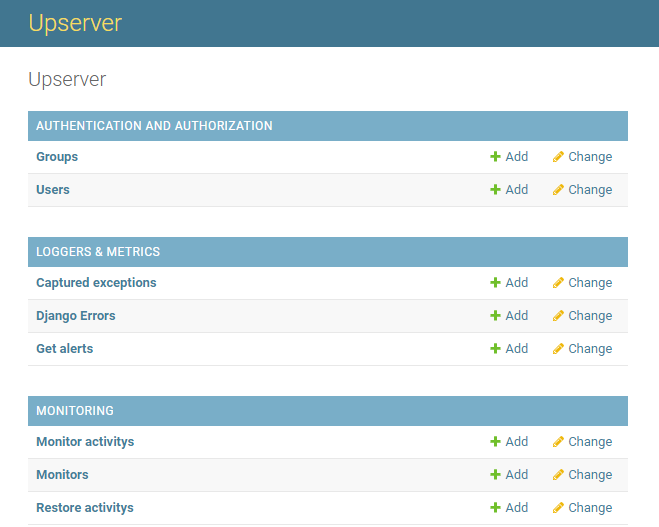
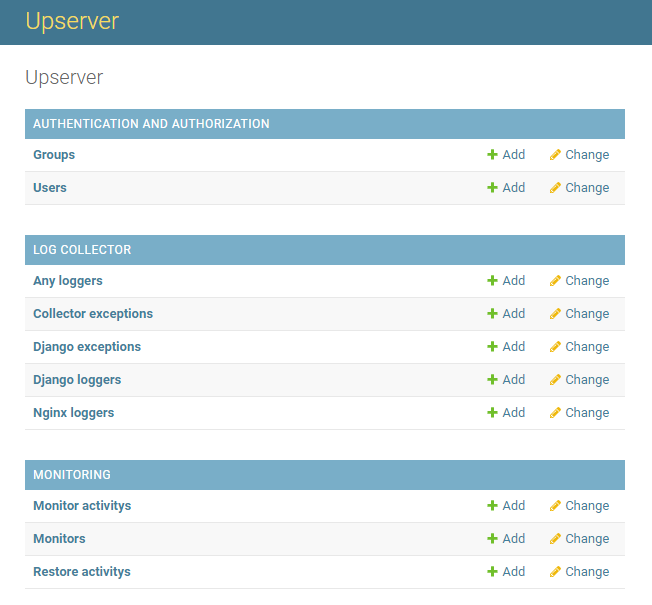
Prepate to beta release

diff --git a/interface/db_tasks.py b/interface/db_tasks.py
@@ -1,0 +1,89 @@
+import os
+from django.contrib.auth.models import User
+from simple_print import sprint
+from log_collector.models import DjangoLogger
+from log_collector.models import DjangoException
+from log_collector.models import AnyLogger
+from log_collector.models import NginxLogger
+from log_collector.models import CollectorException
+from monitoring.models import Monitor
+from mixer.backend.django import mixer
+
+
+def clear_all() -> None:
+    # python run.py db_tasks "clear_all()"
+
+    User.objects.all().delete()
+    DjangoLogger.objects.all().delete()
+    DjangoException.objects.all().delete()
+    AnyLogger.objects.all().delete()
+    NginxLogger.objects.all().delete()
+    Monitor.objects.all().delete()
+    sprint("db_tasks.clear_all -> complete", c="green")
+
+
+def clear_logs() -> None:
+    # python run.py db_tasks "clear_logs()"
+
+    DjangoLogger.objects.all().delete()
+    DjangoException.objects.all().delete()
+    AnyLogger.objects.all().delete()
+    NginxLogger.objects.all().delete()
+    CollectorException.objects.all().delete()
+    sprint("db_tasks.clear_logs -> complete", c="green")
+    
+
+def initial() -> None:
+    # python run.py db_tasks "prepare()"
+
+    username = os.getenv("ADMIN_USER")
+    password = os.getenv("ADMIN_PASSWORD") 
+
+    su_email = f"{username}@up.server"
+    initialized = True
+
+    try:
+       superuser = User.objects.get(email=su_email) 
+    except:
+        superuser = User.objects.create_superuser(username=username, email=su_email, password=password)
+        superuser.save()
+        initialized = False
+    
+    if not initialized:
+
+        monitors_list = [
+            {"name": "httpbin.org",
+            "host": "httpbin.org",
+            "port": 443,
+            "su_host": "httpbin.org",
+            "su_port": 22,
+            "su_login": "root",
+            "su_password": "mypass",
+            "su_restore_commands": "cd /var/opt; ./restore",
+            "active": True
+            }
+        ]
+
+        for monitor_dict in monitors_list:
+            monitor = Monitor()
+            monitor.user = superuser
+            for k, v in monitor_dict.items():
+                monitor.__setattr__(k, v)
+            monitor.save()
+            sprint(f"Monitor successfully created ID={monitor.id}")
+
+        for i in range(10):
+            o = mixer.blend(DjangoLogger, assigned_to=superuser)
+            o.save()
+
+        for i in range(10):
+            o = mixer.blend(DjangoException, assigned_to=superuser)
+            o.save()
+
+        for i in range(10):
+            o = mixer.blend(NginxLogger)
+            o.save()    
+
+        sprint("db_tasks.initial -> complete", c="green")
+    else:
+        sprint("db_tasks.initial -> database already intialized", c="yellow")

diff --git a/interface/urls.py b/interface/urls.py
@@ -5,6 +5,6 @@ urlpatterns = [
     path('', admin.site.urls),
 ] 
 
-admin.site.site_header = "Sys Collector"
-admin.site.site_title = "Sys Collector"
-admin.site.index_title = "Sys Collector"
+admin.site.site_header = "Upserver"
+admin.site.site_title = "Upserver"
+admin.site.index_title = "Upserver"

diff --git a/interface/log_collector/models.py b/interface/log_collector/models.py
@@ -324,7 +324,7 @@ class CollectorException(models.Model):
     creation_date = models.DateTimeField(auto_now_add=True)
 
     def __str__(self):
-        return f"{self.tag}"
+        return f"{self.fn_name}"
 
     @staticmethod
     def format_exception(ei) -> str:

diff --git a/README.md b/README.md
@@ -35,10 +35,11 @@ POSTGRES_HOST=upserver-postgres
 POSTGRES_PORT=5432
 
 # RABBITMQ [CHANGE PASSWORD] 
-RABBITMQ_HOST=upserver-rabbitmq
-RABBITMQ_PORT=5672
 RABBITMQ_USER=admin 
 RABBITMQ_PASSWORD=admin
+RABBITMQ_HOST=upserver-rabbitmq
+RABBITMQ_PORT=5672
+
 
 # INTERFACE [CHANGE SECRET KEY AND TELEGRAM BOT TOKEN]
 SECRET_KEY=django-insecure-@x5%xegdelq=s!fybiup=pktful_+!t%x42y1!hh_=-p7$kz9s 
@@ -54,7 +55,7 @@ docker-compose up --build -d
 
 Run initial script (Required):
 ```sh
-docker exec upserver-interface sh /app/initial_database.sh
+docker exec upserver-interface python run.py db_tasks "initial()"
 ```
 
 Add cron scheduler:
@@ -69,17 +70,27 @@ http://YOU_SERVER_IP:12345 # Here you can log in with ADMIN_USER and ADMIN_PASSW
 
 ## Useful commands
 
+Get shell:
+```sh
+docker exec -it upserver-interface sh
+```
+
+Clear logs:
+```sh
+docker exec upserver-interface python run.py db_tasks "clear_logs()"
+```
+
 Watch interface console:
 ```sh
 docker logs upserver-interface --tail 100 --follow
 ```
 
-Watch monitoring script console:
+Watch monitoring console:
 ```sh
 docker logs upserver-source --tail 100 --follow
 ```
 
-Watch dependencies script console:
+Watch dependencies console:
 ```sh
 docker logs upserver-postgres --tail 100 --follow
 docker logs upserver-rabbitmq --tail 100 --follow
